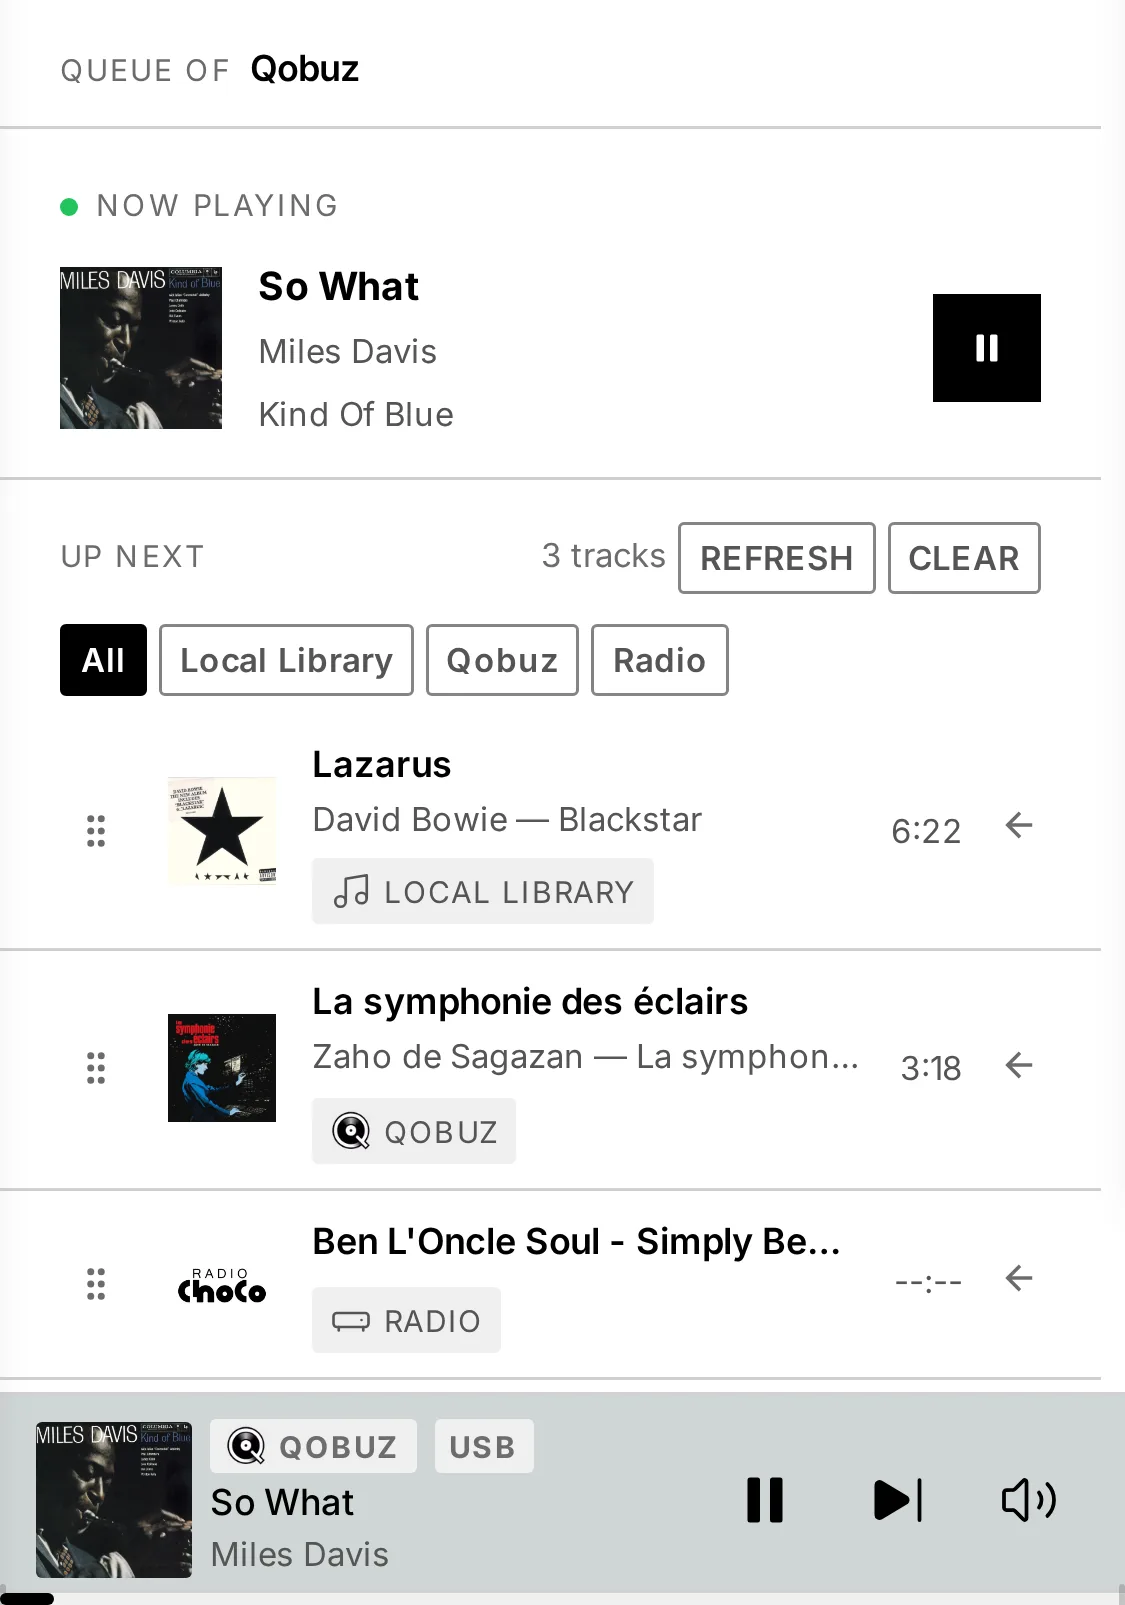
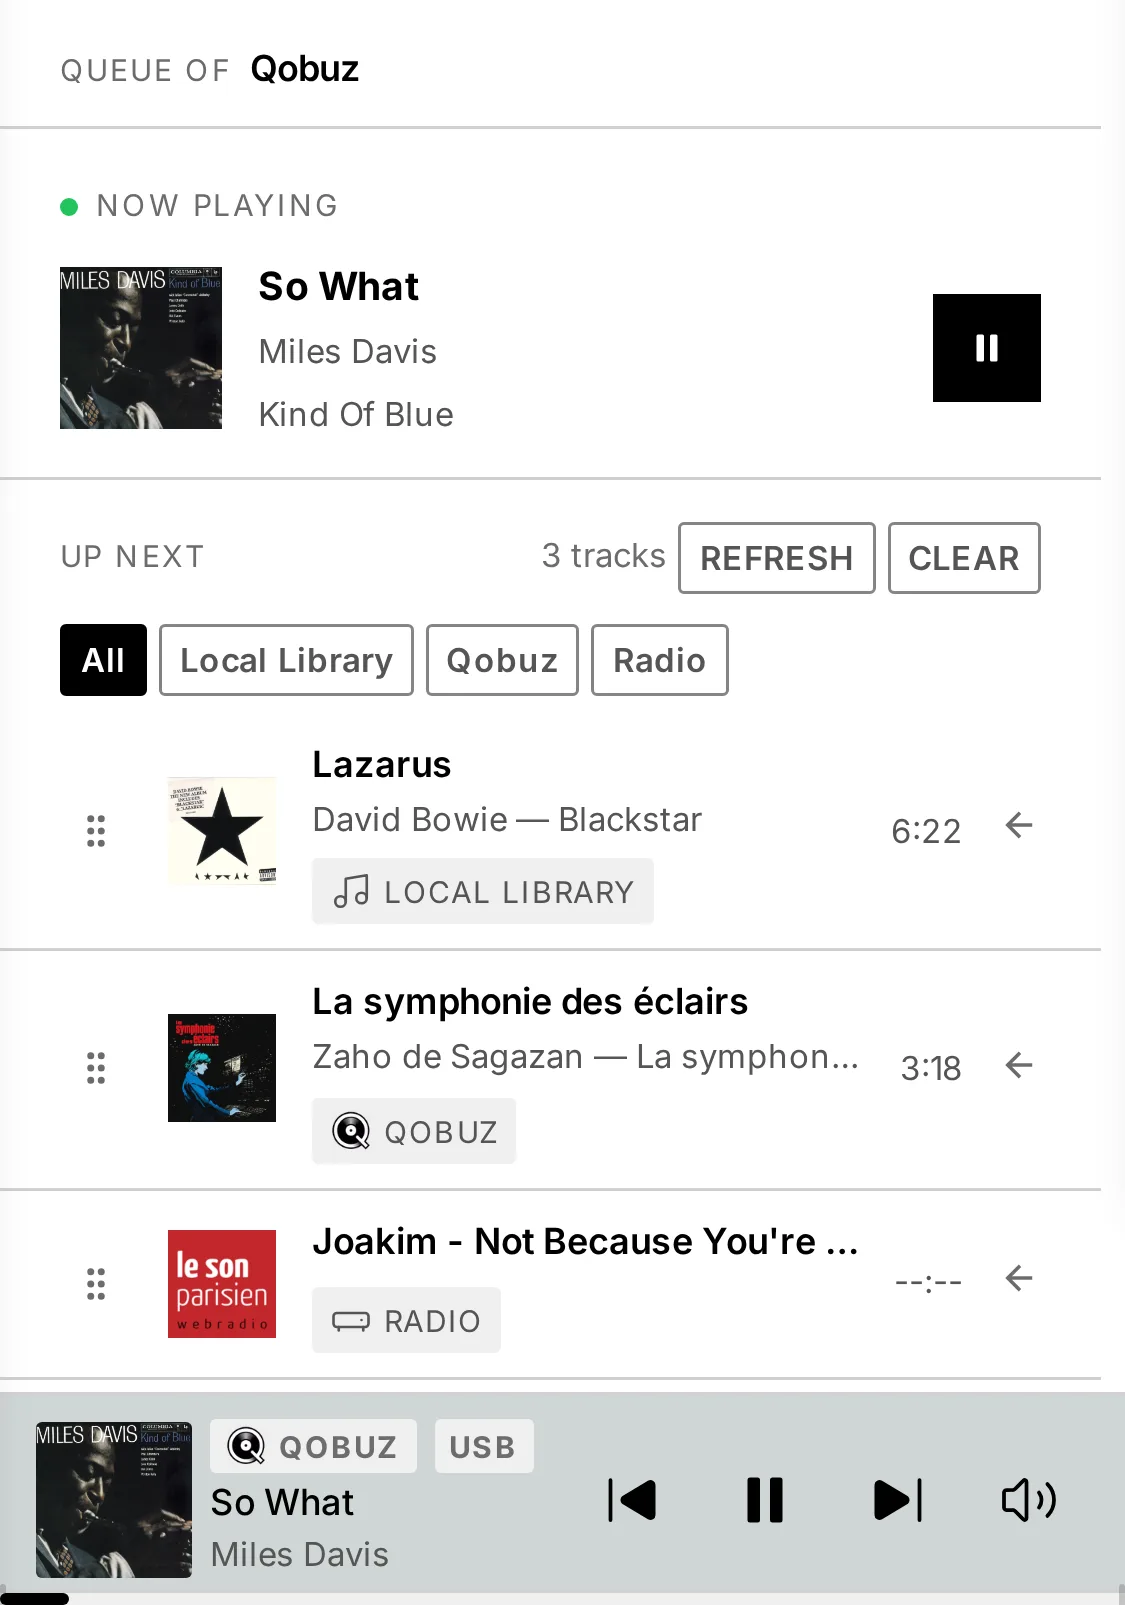
docs: retake the manual's figures of the mini-player with Previous
The Now Playing bar, the mixed queue and the signal chain, taken on the
dev box with So What playing: the bar now shows Previous on a phone.
The bar's figure names Previous in its alt text. The signal chain's top
bar shows the RAM in its orange band (77.9 %: the lab's editor and the
capturing browser), kept on the user's choice.

diff --git a/CHANGELOG.md b/CHANGELOG.md
@@ -10,7 +10,7 @@ and this landing) are documented here. Format based on
 ## [Unreleased]
 
 ### Changed
-- **[ui][manual] On a phone, the mini-player shows Previous again.** Since 0.9.66 a bar narrower than 480 px — a phone — left Previous to the full-screen player, to give the title room. It is back beside Play and Next, greyed where it would do nothing, from the same answer of the box as the full-screen player's buttons: on a station played alone, Previous and Next are both greyed; with other stations queued, they move from one to the next. Repeat and Shuffle stay in the full-screen player. Title and artist keep a line each, 44 px narrower: about 112 pt instead of 156 on a 375 pt iPhone (measured on a capture of the bar).
+- **[ui][manual] On a phone, the mini-player shows Previous again.** Since 0.9.66 a bar narrower than 480 px — a phone — left Previous to the full-screen player, to give the title room. It is back beside Play and Next, greyed where it would do nothing, from the same answer of the box as the full-screen player's buttons: on a station played alone, Previous and Next are both greyed; with other stations queued, they move from one to the next. Repeat and Shuffle stay in the full-screen player. Title and artist keep a line each, 44 px narrower: about 112 pt instead of 156 on a 375 pt iPhone (measured on a capture of the bar). The manual's three figures that show the bar — on its own, under the queue, under the signal path — are retaken with it.
 
 ### Fixed
 - **[ui] The mini-player stays at the bottom of the screen when it is swiped up.** Swiping the bar up to open the full-screen player lifted it with the finger, by a third of the distance, and showed a strip of the page under it — 14 pt on an iPhone capture, where nothing else had moved. It now stays where it is; the full-screen player still opens when the finger is lifted.

diff --git a/docs/manual/04-listening.md b/docs/manual/04-listening.md
@@ -25,7 +25,7 @@ itself is not one of them:
 Tapping the **cover art** does something else: it opens the album's details —
 Album, Artist, Year, Genre, Format, Position, Source — and its tracklist.
 
-<img src="images/ios-nowplaying-bar.webp" alt="The Now Playing bar on a phone: cover art, the stream-origin and output badges, the title and the artist on a line each, and the transport — play/pause, next and volume" width="360">
+<img src="images/ios-nowplaying-bar.webp" alt="The Now Playing bar on a phone: cover art, the stream-origin and output badges, the title and the artist on a line each, and the transport — previous, play/pause, next and volume" width="360">
 
 ## The fullscreen player
 
